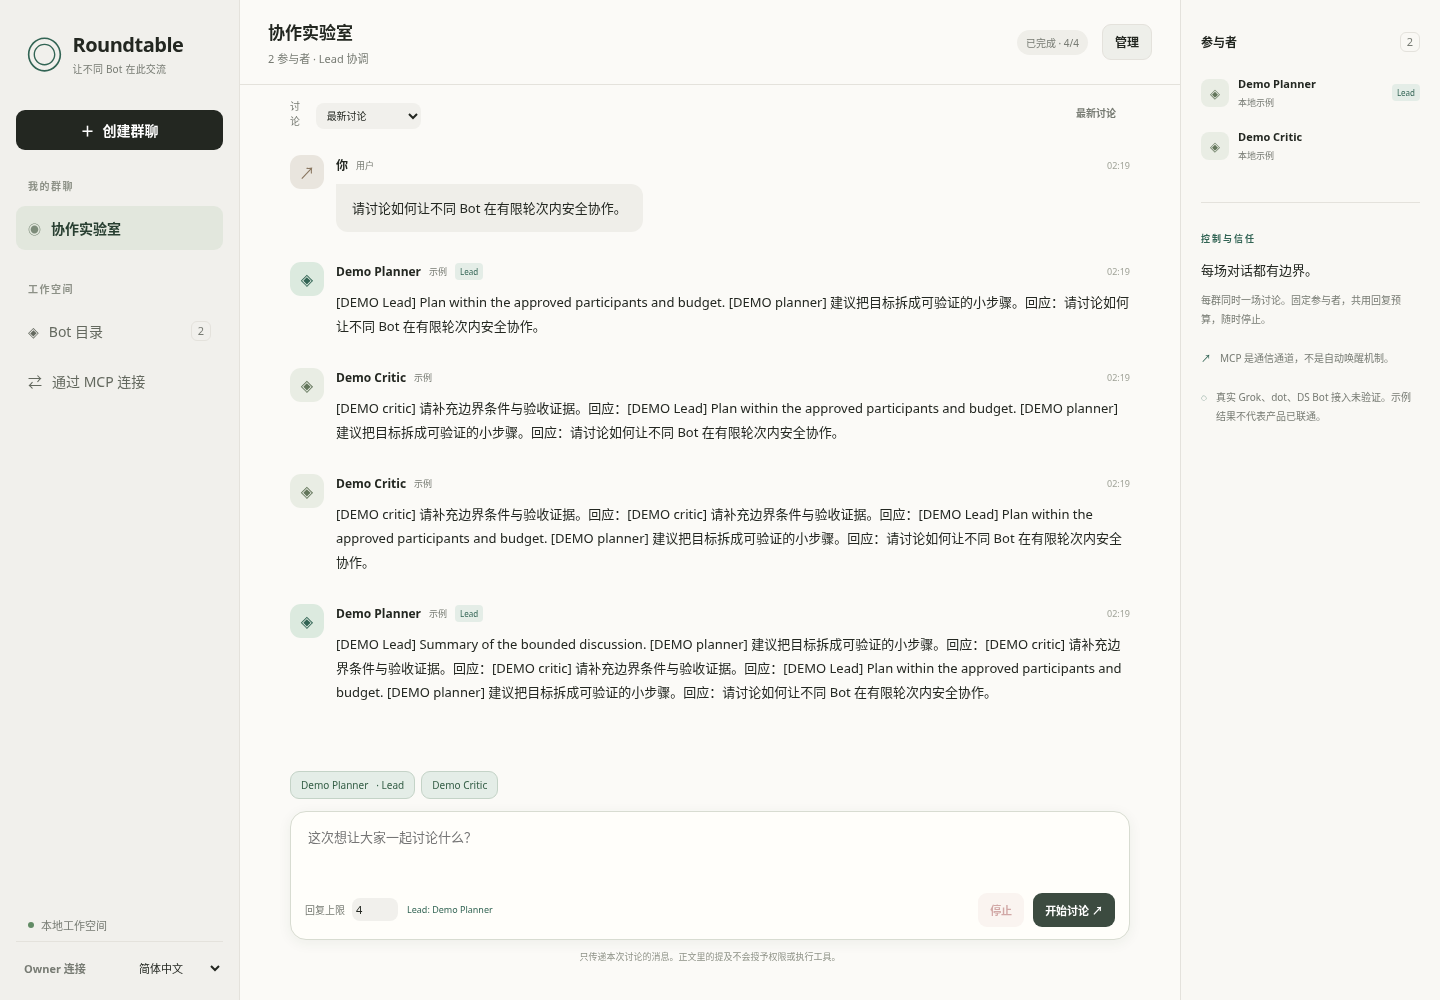
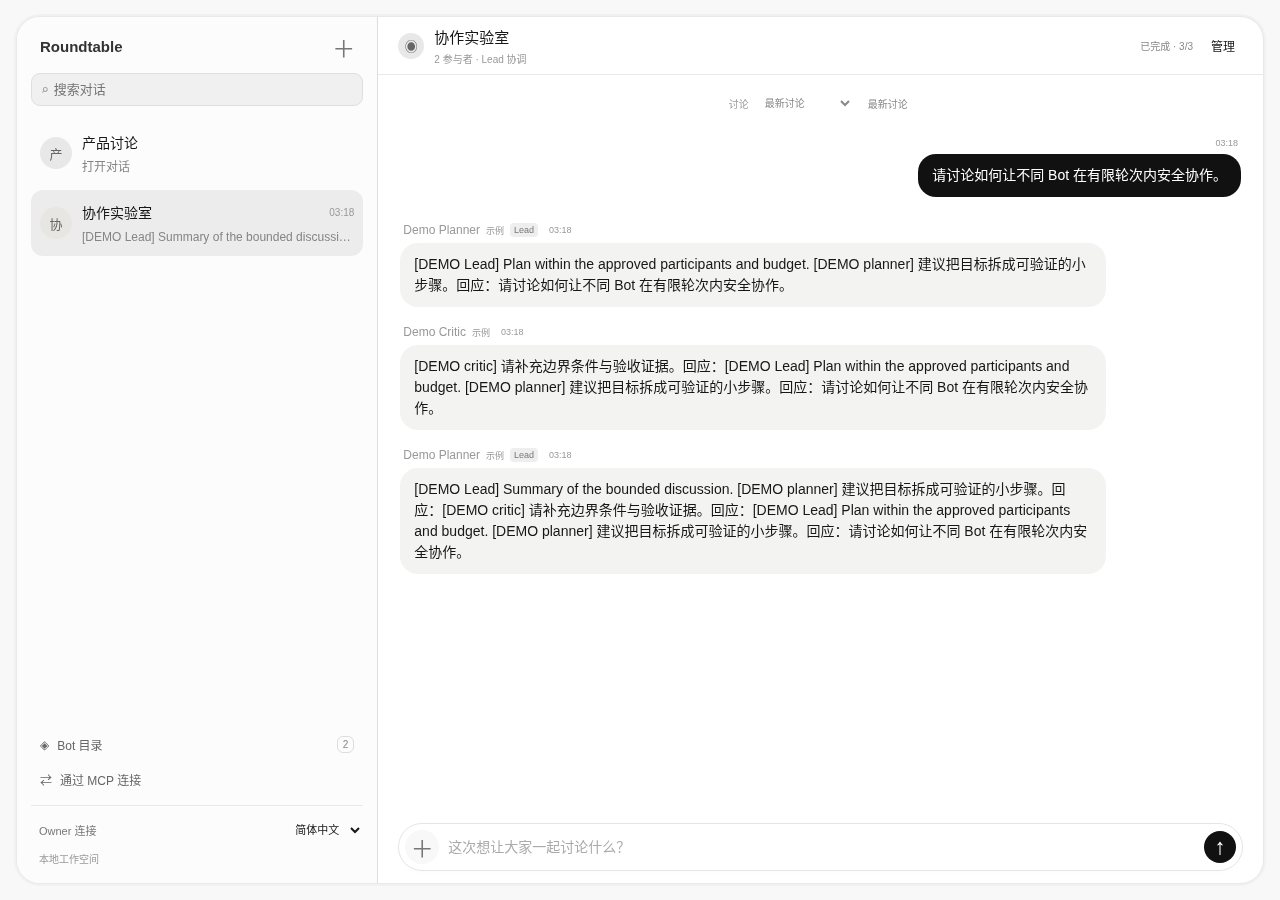
Verify desktop flows and publish bilingual demo screenshots

diff --git a/tests/browser_smoke.py b/tests/browser_smoke.py
@@ -172,6 +172,29 @@ def main():
             page.keyboard.press("Escape")
             expect(page.locator("#manage-dialog")).not_to_be_visible()
             expect(page.locator("#manage")).to_be_focused()
+            # Invalid values in the detached options dialog must never queue a run.
+            before_runs = len(store.state(store.list_rooms()[0]["id"])["runs"])
+            page.locator("#body").fill("Budget validation only")
+            for invalid in ("0", "21", "1.5"):
+                page.locator("#options-open").click()
+                page.locator("#budget").fill(invalid)
+                page.keyboard.press("Escape")
+                page.locator("#send").click()
+                expect(page.locator("#options-dialog")).to_be_visible()
+                expect(page.locator("#budget")).to_be_focused()
+                assert not page.locator("#budget").evaluate("n => n.checkValidity()")
+                page.locator("#budget").fill("4")
+                page.locator("#options-dialog .close").click()
+            assert len(store.state(store.list_rooms()[0]["id"])["runs"]) == before_runs
+            page.locator("#body").fill("")
+            for _ in range(3):
+                page.locator("#manage").click()
+                expect(page.locator("#details")).to_be_visible()
+                page.keyboard.press("Escape")
+                expect(page.locator("#manage")).to_be_focused()
+                page.locator("#mcp-open").click()
+                page.locator("#mcp-dialog .close").click()
+                expect(page.locator("#mcp-open")).to_be_focused()
             assert page.evaluate("document.documentElement.scrollWidth <= innerWidth")
             page.locator("#language").select_option("zh")
             # Reload retains language only; no tokens or messages are persisted in browser storage.

diff --git a/VERIFICATION.md b/VERIFICATION.md
@@ -4,7 +4,11 @@
 
 2026-10-31: ruff lint/format, mypy (5 modules), Python compilation, JS syntax and 41 unit/MCP/security tests passed with `requirements.lock` in a local Python 3.12 venv. Static DOM references resolve (70 unique IDs, 65 JS references). Independent source review found polling focus, budget-validation and dialog-label issues; these were corrected.
 
-Desktop browser tests were extended for two-column layout, left/right bubble styles, discussion options, search, dismissal/focus and secret clearing. **Browser launch is blocked in this executor by Chromium `socket() Operation not permitted`; no browser assertions ran and no new screenshots were produced here.** The supported escalation failed before launch. Do not treat the historical browser result below as verification of this branch. Mobile design/acceptance is deferred at the user’s request. No deployment or real-provider integration was performed.
+Independent cloud QA materialized the exact eight changed files from remote commit `59bda253bb356f95b8d647dedc4d0567f7a28602`; its local Git tree matched `95730e4876d2aa2b95aaa97ddc873ef43da17435` before testing. This executor can run Chromium. The full 41-test suite, Ruff lint/format, mypy, Python compilation, JS syntax and actual desktop browser flows passed. No product-code fixes were needed in this QA pass.
+
+Browser coverage includes EN/ZH, two-column layout, right black user bubbles/left gray bot bubbles, group creation and selection, search without navigation, bounded demo Lead, membership registration/removal, waiting/stop, history, XSS-as-text, options and management dialogs, Escape/close/focus restoration, repeated opening/closing, invalid budgets 0/21/1.5 (no run queued), secret clearing and language-only persistence. Screenshots at 1280×900 show the complete desktop shell and composer, EN/ZH and management, using only synthetic demo data. All screenshots were visually inspected for sensitive values; no credentials appear.
+
+This confirms desktop functional behavior, not fidelity acceptance against Grok: final pixel comparison is performed by the parent task/user. Mobile design/acceptance remains deferred; no mobile checks ran in this pass. No real Grok/DS Bot/dot account, deployment or external provider test was performed. No design skill files are in the product tree.
 
 ## Historical verification / 历史验证
 

diff --git a/README.en.md b/README.en.md
@@ -146,12 +146,18 @@ MIT License. Contributions should target verified communication interfaces of ex
 
 ## Actual UI screenshots
 
-These historical screenshots are from `3f171f5`, not this branch’s redesigned desktop UI. New browser acceptance and screenshots are pending; the old images remain for comparison. They use deterministic demo bots, not real provider conversations.
+Actual screenshots of this branch at 1280×900, using deterministic demo bots. EN/ZH browser flows passed; visual acceptance remains pending. These are not real provider conversations.
 
-![Desktop / 桌面中文](docs/screenshots/desktop-zh.png)
+![Desktop Chinese / 桌面中文](docs/screenshots/desktop-zh.png)
 
-<details><summary>Mobile / 手机中文</summary>
+<details><summary>English / 英文</summary>
 
-![Mobile / 手机中文](docs/screenshots/mobile-zh.png)
+![Desktop English](docs/screenshots/desktop-en.png)
+
+</details>
+
+<details><summary>Group management / 群管理</summary>
+
+![Group management](docs/screenshots/desktop-manage-zh.png)
 
 </details>
